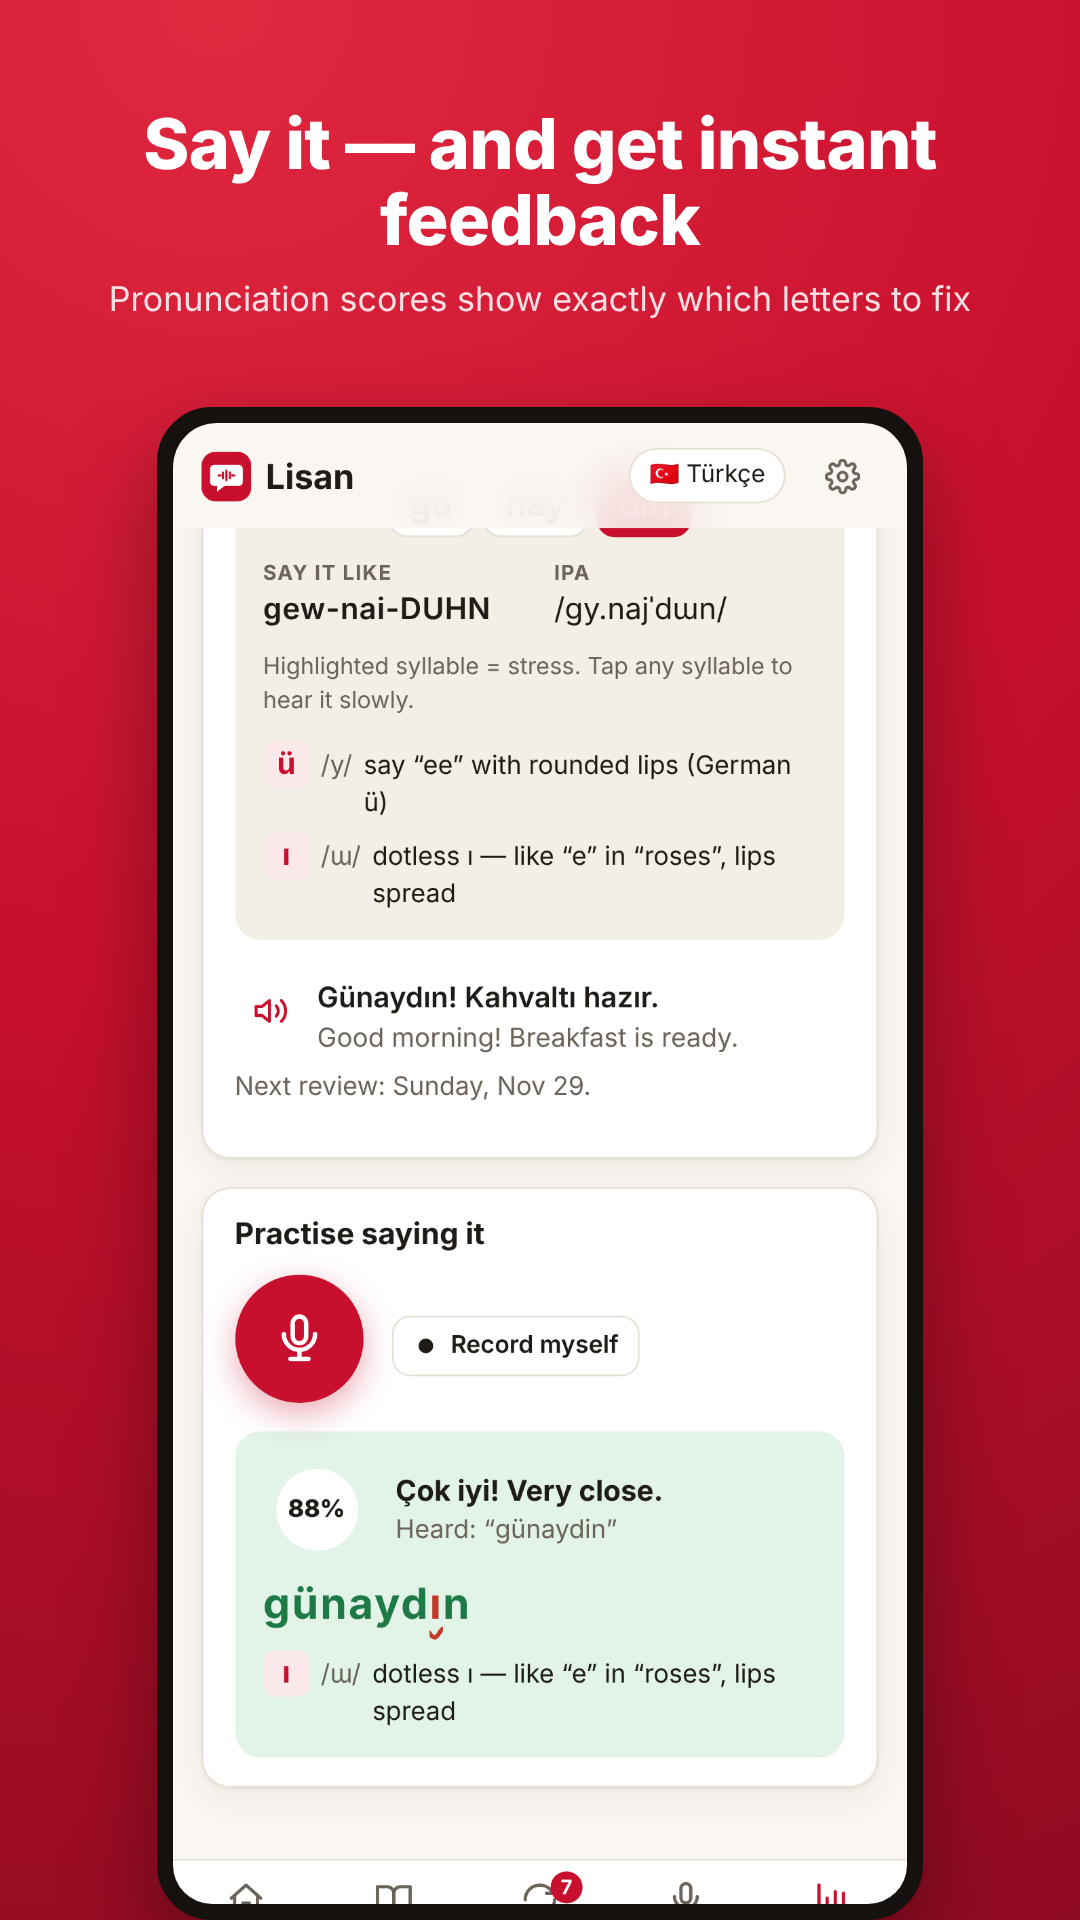
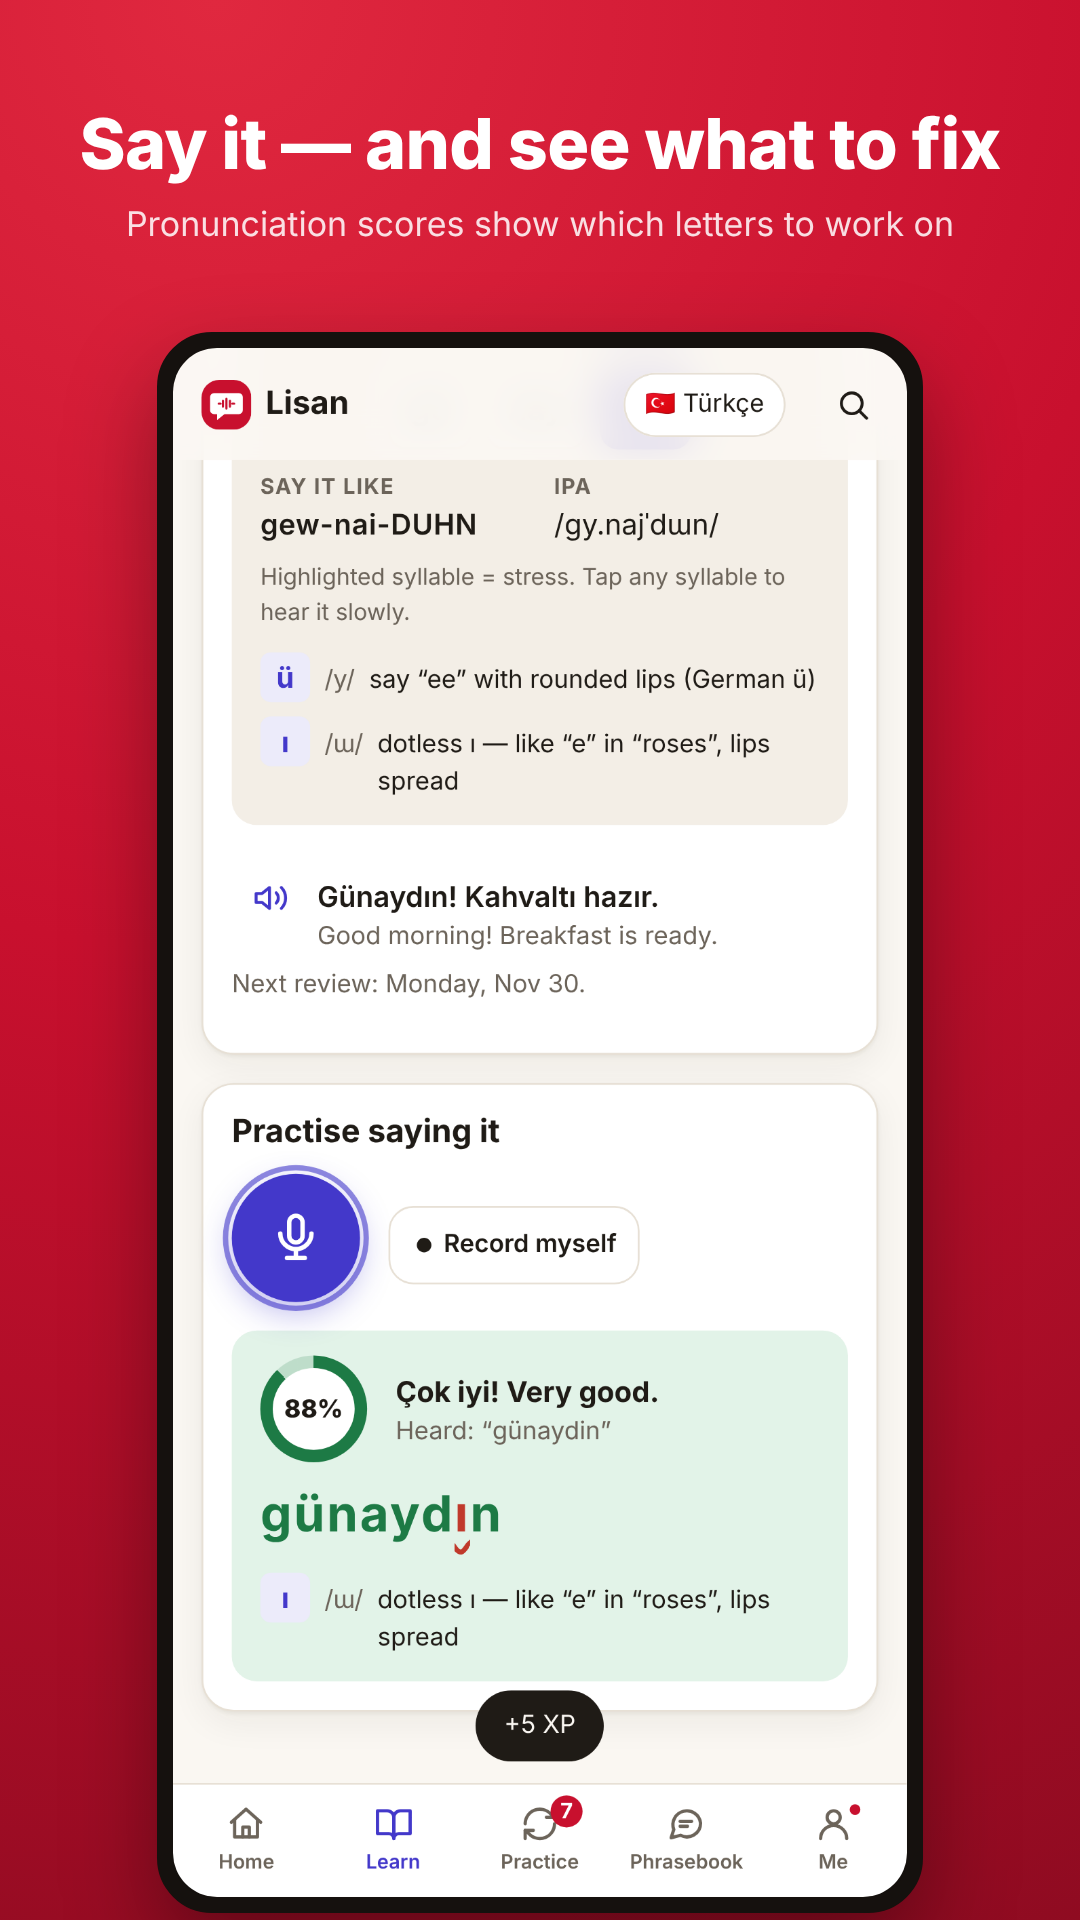
Retake store screenshots and feature graphic for the four-language app
Claude-Session: https://claude.ai/code/session_01NKTM9xbjPU3QPKkrKpimbh

Changed region(s): [[0.0611, 0.0625, 0.9167, 1.0], [0.6722, 0.8125, 0.7028, 0.8438], [0.6111, 0.8125, 0.6417, 0.8438]]

diff --git a/CHANGELOG.md b/CHANGELOG.md
@@ -3,6 +3,7 @@
 ## Unreleased
 
 ### Added
+- **Store screenshots and feature graphic** retaken for the current app: home, a Japanese lesson card, the pronunciation score, the Arabic phrasebook, the Ukrainian reader and progress.
 - **About the lessons** (Settings): says plainly that the content was written and checked with AI help and automated tests and has not been reviewed by native speakers yet. The README and the content files’ headers now describe this accurately.
 - **Long reads in Read & Listen:** four longer texts per language (20–26 lines each, marked “Long read”): a folk tale (Nasreddin Hoca and the cauldron, The Mitten, Momotarō, Juha and the donkey), a “Why I’m learning …” talk written so any learner can adapt and give it, a letter to a friend about life in a new city, and a job interview. Each has a glossary and questions like the short texts. 20 texts per language now.
 - **Recording a whole speech** allows more time for longer texts (1:30 up to 5:00, about twice a native reading) instead of a fixed 1:30.

diff --git a/store/listing.md b/store/listing.md
@@ -2,7 +2,7 @@
 
 Copy each field into App Store Connect / Google Play Console. The character counts are shown against each store's limit.
 
-> The app now teaches four languages, so this text was rewritten from the Turkish-only version. The **app name** is a suggestion — it is your branding decision (the previous name was “Lisan: Learn Turkish Words”). The screenshots in `store/screenshots/` still show the older design and should be retaken before a store submission.
+> The app now teaches four languages, so this text was rewritten from the Turkish-only version. The **app name** is a suggestion — it is your branding decision (the previous name was “Lisan: Learn Turkish Words”). The screenshots and the feature graphic in `store/` show the current design and all four languages (regenerate them with `node scripts/store-screenshots.cjs`).
 
 ## App name (App Store & Google Play)
 _24 / 30 characters_
